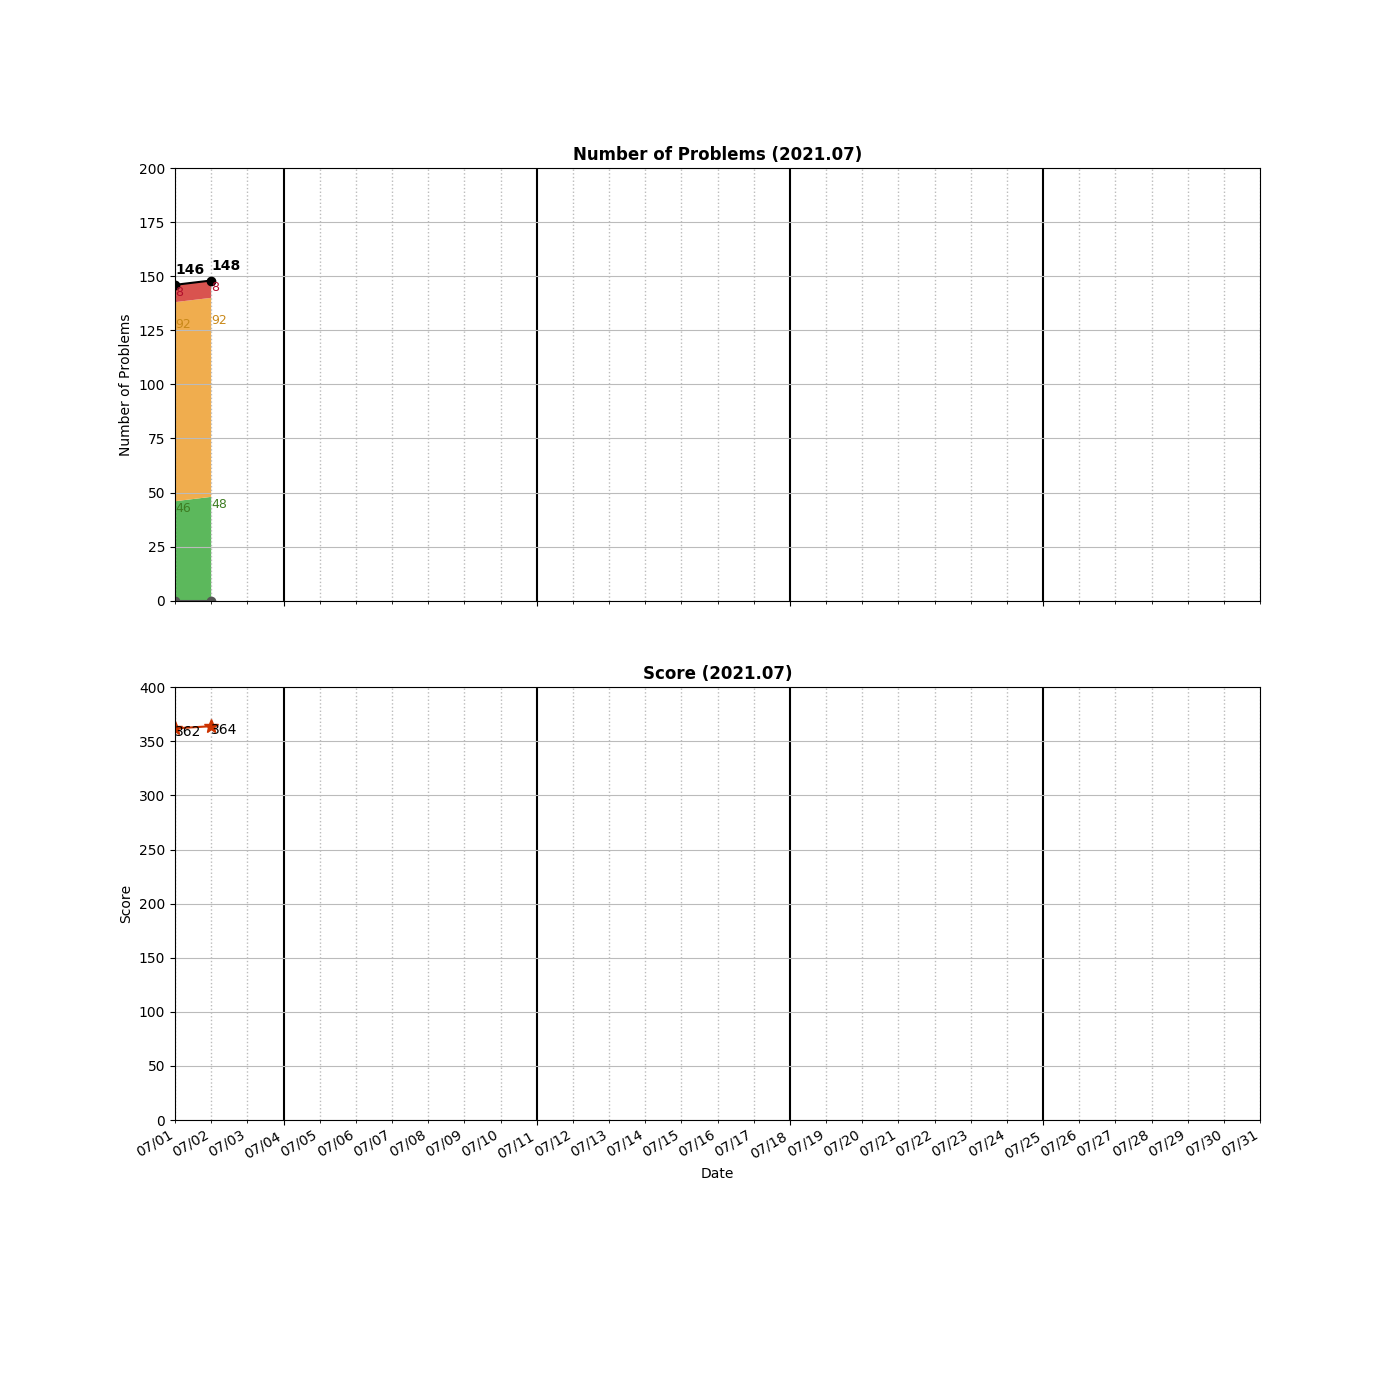
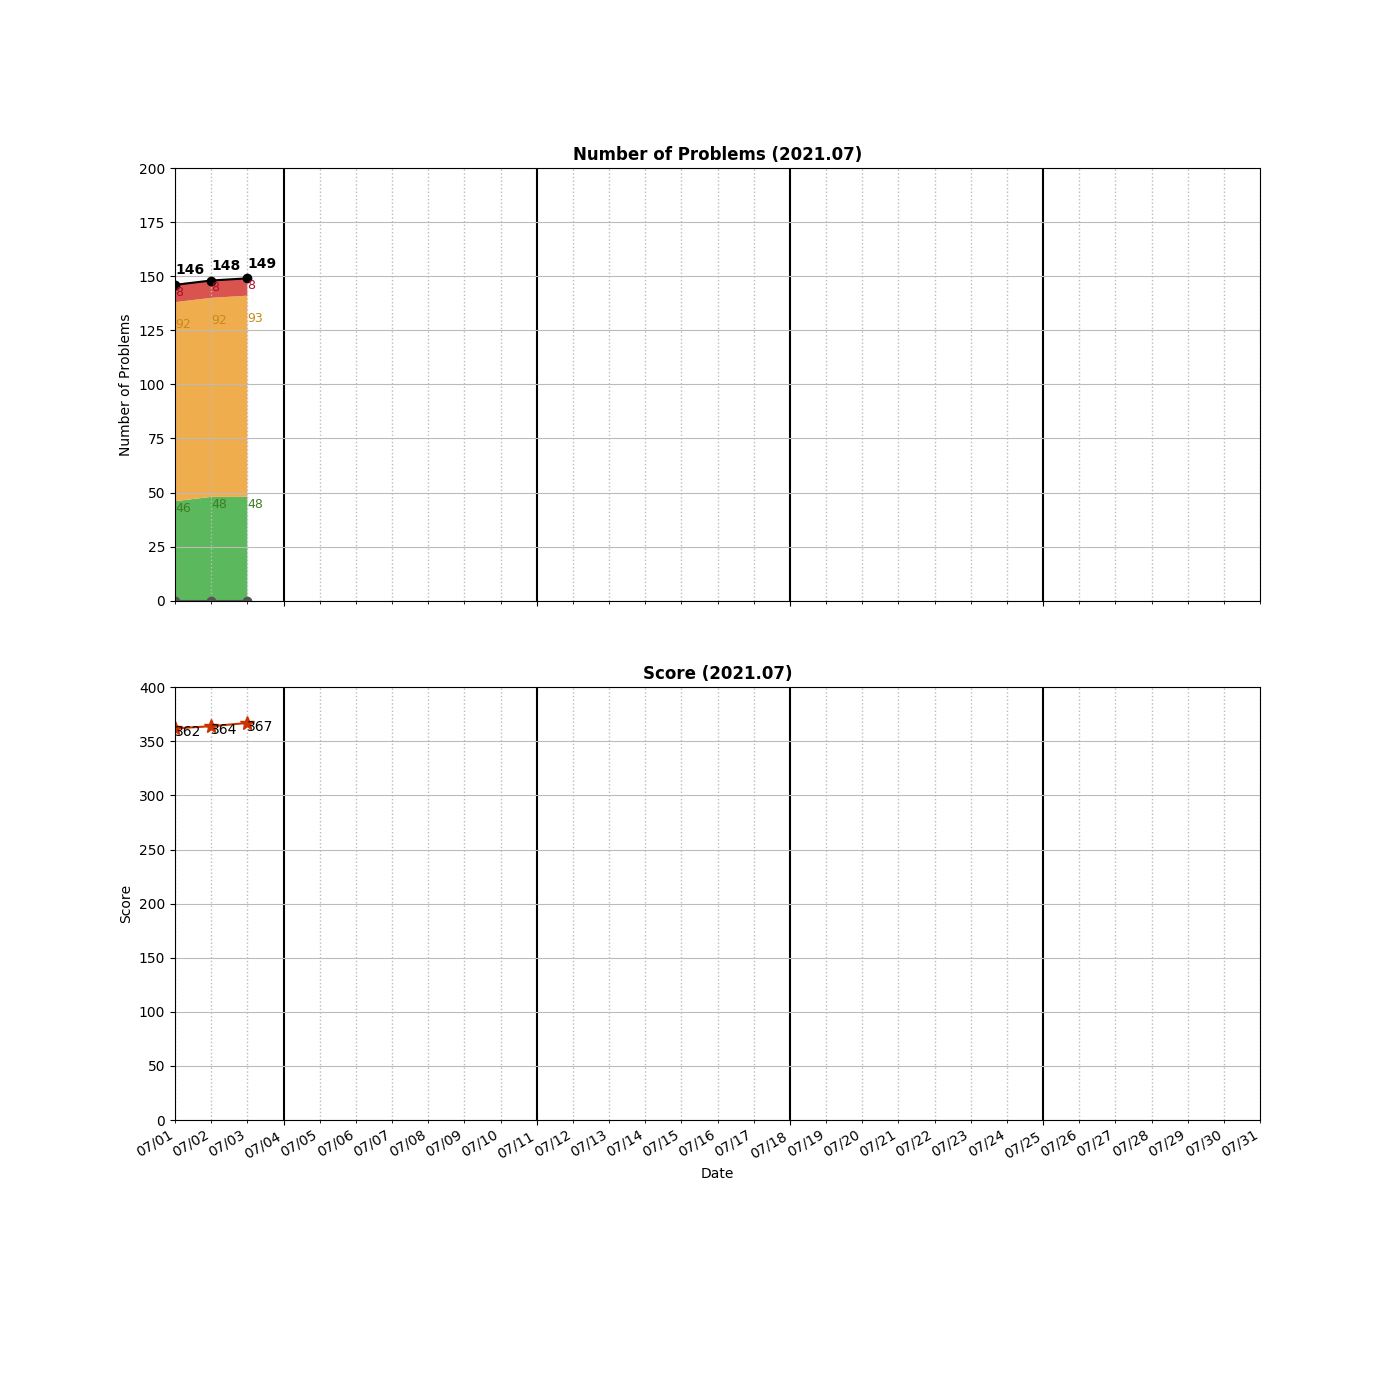
Added __0148__Sort List.py

Changed region(s): [[0.1536, 0.1843, 0.1843, 0.43], [0.1536, 0.4914, 0.1843, 0.5221]]

diff --git a/algo/LinkedList/__0148__Sort List.py b/algo/LinkedList/__0148__Sort List.py
@@ -1,0 +1,55 @@
+# Definition for singly-linked list.
+# class ListNode:
+#     def __init__(self, val=0, next=None):
+#         self.val = val
+#         self.next = next
+class Solution:
+    def sortList(self, head: ListNode) -> ListNode:
+        if not head: #0
+            return head 
+        if not head.next: #1
+            return head
+        
+        leftList, rightList = self.separateList(head)        
+        leftList = self.sortList(leftList)
+        rightList = self.sortList(rightList)
+        sortedList = self.mergeList(leftList, rightList)
+
+        return sortedList
+    
+    def separateList(self, head):        
+        p1, p2 = head, head
+        p0 = ListNode(0)  #dummy 
+        p0.next = p1
+        while p2 and p2.next:
+            p0 = p0.next
+            p1 = p1.next
+            p2 = p2.next.next
+        p0.next = None
+        return head, p1
+    
+    def mergeList(self, left, right):
+        p0 = ListNode(0)
+        dummy = p0
+        while left and right:
+            if left.val <= right.val:
+                p0.next = left
+                left = left.next
+                p0 = p0.next
+            else:
+                p0.next = right
+                right = right.next
+                p0 = p0.next
+        if left:
+            p0.next = left
+        else:
+            p0.next = right
+        return dummy.next
+            
+    def printList(self, head):
+        p1 = head
+        while p1: 
+            print(p1.val, "->", end = "")
+            p1 = p1.next
+        print()
+            

diff --git a/README.md b/README.md
@@ -106,6 +106,7 @@ algo
 │   ├── __0092__Reverse\ Linked\ List\ II.py
 │   ├── __0141__Linked\ List\ Cycle.py
 │   ├── __0142__Linked\ List\ Cycle\ II.py
+│   ├── __0148__Sort\ List.py
 │   ├── __0160__Intersection\ of\ Two\ Linked\ Lists.py
 │   ├── __0206__Reverse\ Linked\ List.py
 │   └── __0234__Palindrome\ Linked\ List.py
@@ -174,7 +175,7 @@ algo
         ├── LinkedList.cpython-37.pyc
         └── UnrolledLinkedList.cpython-37.pyc
 
-19 directories, 154 files
+19 directories, 155 files
 
 =====================================
 ============= Local Repo ============
@@ -245,6 +246,7 @@ __0141__Linked List Cycle.py
 __0142__Linked List Cycle II.py
 __0144__Binary Tree Preorder Traversal.py
 __0146__LRU Cache.py
+__0148__Sort List.py
 __0151__Reverse Words in a String.py
 __0152__Maximum Product Subarray.py
 __0153__Find Minimum in Rotated Sorted Array.py
@@ -325,7 +327,7 @@ __1429__First Unique Number.py
 __1593__Split a String Into the Max Number of Unique Substrings.py
 __1905__Count Sub Islands.py
 =====================================
-Num of Python Practice:  145
+Num of Python Practice:  146
 
 
 =====================================
@@ -399,6 +401,7 @@ Num of Python Practice:  145
  0142 Linked List Cycle II
  0144 Binary Tree Preorder Traversal
  0146 LRU Cache
+ 0148 Sort List
  0151 Reverse Words in a String
  0152 Maximum Product Subarray
  0153 Find Minimum in Rotated Sorted Array
@@ -481,10 +484,10 @@ Num of Python Practice:  145
  1905 Count Sub Islands
 =====================================
 Solved / Total (Easy)  :   48 /  502
-Solved / Total (Medium):   92 / 1013
+Solved / Total (Medium):   93 / 1013
 Solved / Total (Hard)  :    8 /  404
-Solved / Total (All)   :  148 / 1919
-Total Score            :  364
+Solved / Total (All)   :  149 / 1919
+Total Score            :  367
 =====================================
 
 ```
